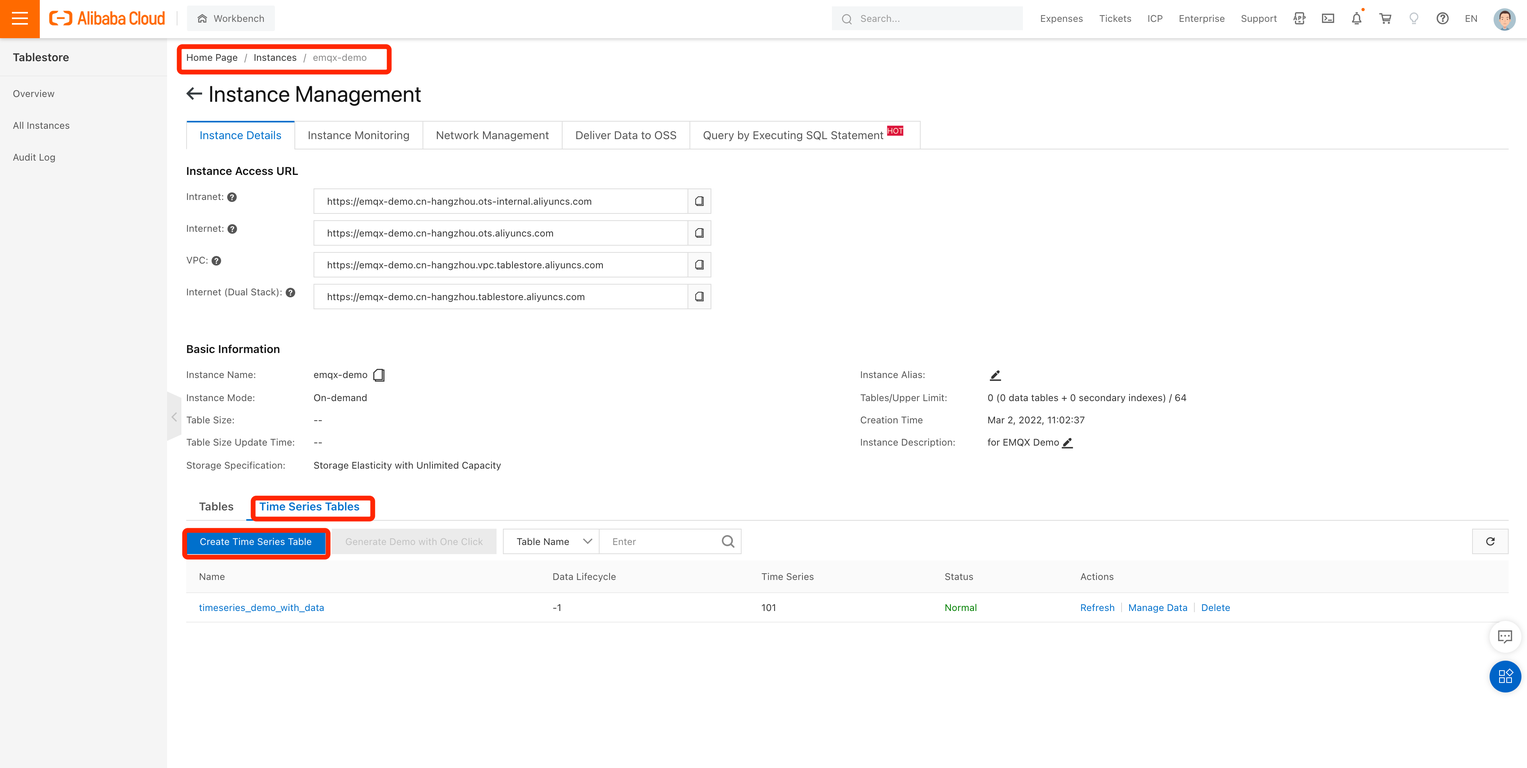
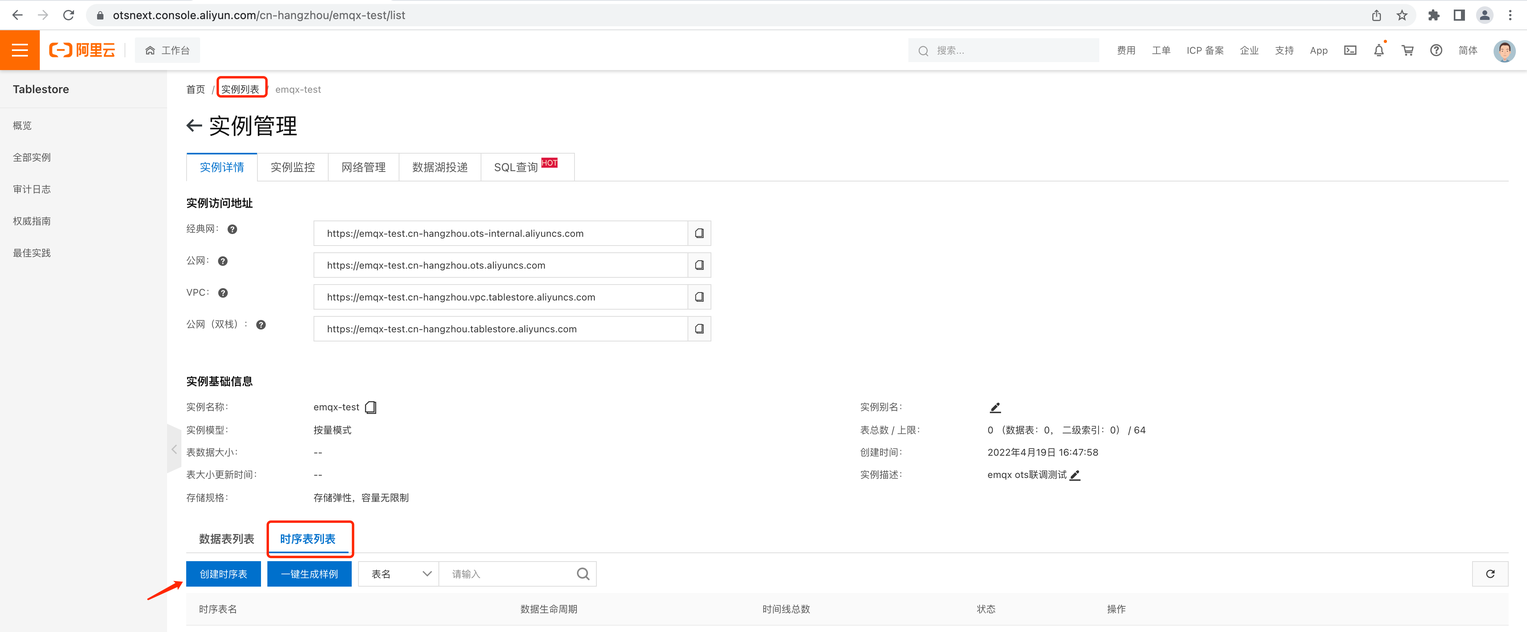
Update according to comments

diff --git a/en_US/data-integration/tablestore.md b/en_US/data-integration/tablestore.md
@@ -13,22 +13,20 @@ Tablestore data integration in EMQX seamlessly combines EMQX's real-time data ca
 
 Once the data is stored, Tablestore provides powerful tools for analysis, including the ability to generate reports, charts, and other visualizations, which are then presented to users via Tablestore’s visualization features.
 
-The typical data integration architecture between EMQX and Tablestore for IoT applications, such as vehicle networking, is illustrated below:
+The diagram below illustrates the typical data integration architecture between EMQX and Tablestore in an energy storage scenario.
 
-<!--Need a new illustration-->
+![MQTT to Tablestore](./assets/mqtt-to-tablestore.png)
 
-![MQTT to Tablestore](/Users/emqx/Documents/GitHub/emqx-docs/en_US/data-integration/assets/mqtt-to-influxdb.jpg)
+EMQX and Tablestore provide an extensible IoT platform for efficiently collecting and analyzing energy consumption data in real-time. In this architecture, EMQX serves as the IoT platform, handling device access, message transmission, and data routing, while Tablestore serves as the data storage and analysis platform, responsible for data storage and analysis functions. The workflow is as follows:
 
-In this architecture, EMQX handles device access, message transmission, and routing, while Tablestore acts as the storage and analysis platform. The data flow is as follows:
+1. **Message publication and reception**: Energy storage devices and Industrial IoT devices establish successful connections to EMQX through the MQTT protocol and regularly publish energy consumption data using the MQTT protocol, including information such as power consumption, input/output power, etc. When EMQX receives these messages, it initiates the matching process within its rules engine.  
+2. **Message data processing**: Using the built-in rule engine, messages from specific sources can be processed based on topic matching. When a message arrives, it passes through the rule engine, which matches it with the corresponding rule and processes the message data, such as transforming data formats, filtering specific information, or enriching messages with contextual information.
+3. **Data ingestion into Tablestore**: Rules defined in the rule engine trigger the operation of writing messages to Tablestore. The Tablestore Sink provides configurable fields that allow flexible definitions of the data format to be written, mapping specific fields from the message to the corresponding measurement and field in Tablestore.
 
-1. **Message Publication and Reception**: IoT devices in vehicle networks (e.g., connected cars, sensors) establish connections to EMQX via MQTT and regularly publish data such as vehicle speed, location, fuel level, etc. Upon receiving these messages, EMQX uses its rule engine to process and route the data.
-2. **Message Data Processing**: The built-in rule engine processes incoming messages based on defined topic matches. It transforms data, filters relevant information, and enriches the data with additional context as required.
-3. **Data Ingestion into Tablestore**: The rule engine triggers the operation of writing data to Tablestore. Through the Tablestore Sink, EMQX supports flexible data formats using Line Protocol, which maps the message fields to corresponding fields in Tablestore for storage.
+After energy consumption data is written to Tablestore, you can analyze the data, for example:
 
-Once the data is stored in Tablestore, you can leverage its full analytical capabilities, such as:
-
-- Connecting to visualization tools like Grafana to create charts and dashboards based on stored data.
-- Integrating with business systems for monitoring, alerting, and status reporting of vehicle network devices.
+- Connect to visualization tools like Grafana to generate charts based on the data, displaying energy storage data.
+- Connect to business systems for monitoring and alerting on the status of energy storage devices.
 
 ## Features and Benefits
 
@@ -42,11 +40,11 @@ The Tablestore data integration offers the following features and advantages:
 
 ## Before You Start
 
-This section describes the preparations you need to complete before you start creating the Tablestore data integration, including creating a database instance and managing a time series table.
+This section describes the preparations you need to complete before you start creating the Tablestore data integration, including creating a database instance, creating and managing a time series table.
 
 ::: tip
 
-EMQX integrates with Tablestore using the TimeSeries model. Therefore, the following steps focus on the TimeSeries model for data integration.
+Currently, the data integration with Tablestore only supports the TimeSeries model. Therefore, the following steps focus on the TimeSeries model for data integration.
 
 :::
 
@@ -57,16 +55,15 @@ Before you proceed, make sure you have the following:
 - Understanding of EMQX data integration [rules](./rules.md).
 - Knowledge of how [data integration](./data-bridges.md) works in EMQX.
 
-### Create a Database Instance
+### Create a Time Series Table
 
 1. Log in to the [Tablestore console](https://account.alibabacloud.com/login/login.htm?spm=5176.12901015-2.0.0.1a364b84fgwsH6).
-2. Navigate to **Instances**.
-3. In the **Instance Details** tab, select **Time Series Table** and click the **Create Time Series Table** button.
-4. Provide a name for the instance, for example, `qa-ots-series`.
+2. Create a time series model instance. Provide a name for the instance, such as `emqx-demo`. For detailed instructions on creating an instance, refer to the [Tablestore official documentation](https://www.alibabacloud.com/help/en/tablestore/getting-started/use-timeseries-model-in-tablestore-console?spm=a2c63.p38356.help-menu-27278.d_1_2_0.6d7d5e92tyvDzj#section-247-wkm-e7a).
+3. Navigate to the **Instance Management** page.
+4. In the **Instance Details** tab, select **Time Series Tables** and click the **Create Time Series Table** button.
+5. Configure the time series table information, providing a name for the table, such as `timeseries_demo_with_data`. Click **Confirm**.
 
 ![img](./assets/tablestore_instance_manage.png)
-
-For detailed instructions on creating an instance, refer to the [official Tablestore documentation](https://www.alibabacloud.com/help/en/tablestore/getting-started/procedure-of-using-tablestore?spm=a2c63.p38356.0.i2).
 
 ### Manage a Time Series Table
 
@@ -96,12 +93,12 @@ The following steps assume that you run both EMQX and Tablestore on the local ma
 4. In the **Configuration** step, configure the following information:
    - Enter the connector name, which should be a combination of upper and lower case letters and numbers. Example: `my_tablestore`.
    - Enter the Tablestore server connection information:
-     - **Endpoint**: Enter the access URL for your Tablestore instance. This should be the address where your Tablestore service is hosted, and you can find it on the Instance details page in your Tablestore console.
-     - **Instance Name**: The name of the Tablestore instance to connect to. In this example, use the name you created before: `qa-ots-series`.
+     - **Endpoint**: Enter the access URL for your Tablestore instance. This should be the address where your Tablestore service is hosted, and you can find it on the Instance details page in your Tablestore console. Enter the URL according to your deployment method, for example `https://emqx-demo.cn-hangzhou.ots.aliyuncs.com` for public network.
+     - **Instance Name**: The name of the Tablestore instance to connect to. In this example, use the name you created before: `emqx-demo`.
      - **Access Key ID**: The Access Key ID used to authenticate with Tablestore. This key is issued by Alibaba Cloud for accessing Tablestore resources securely.
      - **Access Key Secret**: The Access Key Secret used for authentication, associated with the Access Key ID.
-     - **Storage Model Type**: Select TimeSeries by default.
-   - Determine whether to enable TLS. For detailed information on TLS connection options, see [TLS for External Resource Access](../network/overview.md#enabling-tls-for-external-resource-access).
+     - **Storage Model Type**: Currently only `TimeSeries` is supported.
+   - Configure TLS Parameters. Tablestore uses HTTPS endpoints, so TLS is enabled by default and no additional TLS parameter configuration is required. For detailed information on TLS connection options, see [TLS for External Resource Access](../network/overview.md#enabling-tls-for-external-resource-access).
 5. Before clicking **Create**, you can click **Test Connectivity** to test if the connector can connect to the Tablestore server.
 6. Click the **Create** button at the bottom to complete the creation of the connector. In the pop-up dialog, you can click **Back to Connector List** or click **Create Rule** to continue creating rules and Sink to specify the data to be forwarded to Tablestore. For detailed steps, see [Create a Rule with Tablestore Sink](#create-a-rule-with-tablestore-sink).
 
@@ -143,19 +140,31 @@ This section demonstrates how to create a rule in EMQX to process messages from 
 9. Configure the following fields:
 
    - **Data Source**: The data source from which EMQX retrieves the message. It represents the origin of the data being processed. This could be a specific topic or data stream.
+
    - **Table Name**: The name of the Tablestore table where the data will be stored. Enter the table name you created before. You can also dynamically assign a table name using variables such as `${table}`.
-   - **Measurement**: The measurement name used in Tablestore, which typically corresponds to a logical grouping or category of data. For example, it could be something like `temperature_readings` or `sensor_data`. Use `${measurement}` for dynamic assignment.
-   - **Storage Model Type**: The type of data storage model used in Tablestore. It is`timeseries` by default, optimized for time-based data.
-   - **Tags**: Tags are key-value pairs associated with each data entry in Tablestore. These can be used to add metadata or labels to the data for easier querying and filtering. You can click **Add** to define multiple tags, such as `location = "office1"`, `device = "sensor1"`, etc.
+
+   - **Measurement**: The measurement name used in Tablestore, which typically corresponds to a logical grouping or category of data. For example, it could be something like `temperature_readings` or `sensor_data`. You can also use variables (e.g., `${measurement}`) to dynamically assign the metric name.
+
+   - **Storage Model Type**: The type of data storage model used in Tablestore. Currently, on `timeseries`  is supported, optimized for time-based data.
+
+   - **Tags**: Tags are key-value pairs associated with each data entry in Tablestore. These can be used to add metadata or labels to the data for easier querying and filtering. You can click **Add** to define multiple tags, for example:
+
+     | 键         | 值        |
+     | ---------- | --------- |
+     | `location` | `office1` |
+     | `device`   | `sensor1` |
+
    - **Fields**:  A list of fields specifying which data is sent to Tablestore. Each field is mapped to a column in the Tablestore table. You can click **Add** to add the following:
-     - **Column**: The name of the column in Tablestore.
-     - **Message value**: The value to be assigned to the column. The value can be a dynamic reference (like `${msg}`), a boolean (`true`), a number (`1.3`), or binary data.
-     - **Is Int**: If the column expects an integer, set this flag to `true`.
-     - **Is Binary**: If the column expects binary data, set this flag to `true`.
-   - **Timestamp**: The timestamp for the record in Tablestore. This typically represents when the data was received or when the event occurred. You can specify a fixed value or use `${timestamp}` for dynamic assignment based on the message's timestamp. This is important for time-series data to ensure that records are properly indexed by time.
+     - **Column**: The name of the column in Tablestore. The column name can be defined using variables, such as `${column_name}`, which should match the field in the payload of the message example sent later.
+     - **Message value**: The value to be assigned to the column. The value can be a dynamic reference (like `${value}`), a boolean (`true`), a number (`1.3`), or binary data.
+     - **Is Int**: If the column is of numeric type, EMQX will, by default, insert it into Tablestore as a floating-point type. To insert integer values, this flag needs to be set to `true`. When configuring through the configuration file, variables (e.g., `${isint}`) can be used to dynamically assign this flag.
+     - **Is Binary**: If the column is binary, EMQX will, by default, insert it into Tablestore as a string type. To insert binary data, this flag needs to be set to `true`. When configuring through the configuration file, variables (e.g., `${isbinary}`) can be used to dynamically assign this flag.
+     
+   - **Timestamp**: The timestamp recorded in Tablestore, represented as an integer value in microseconds. This specifies the timestamp to be inserted into Tablestore. You can provide a fixed value, use the string "NOW" to indicate that EMQX should dynamically fill in the current time when processing the message, or use a variable placeholder (e.g., `${microsecond_timestamp}`) for dynamic assignment.
+
    - **Meta Update Model**: Defines the update strategy for metadata in Tablestore:
      - `MUM_IGNORE`: Ignores metadata updates, ensuring that metadata remains unchanged even if there are conflicting updates.
-     - `MUM_NORMAL`: Updates metadata normally, which might overwrite existing metadata in case of conflicts.
+     - `MUM_NORMAL`: Performs a normal metadata update. If the metadata does not exist, it will be dynamically created before writing the data. If there is a conflict with existing metadata, it may be overwritten.
 
 10. Advanced settings (optional):  See [Advanced Configurations](#advanced-configurations).
 
@@ -174,12 +183,14 @@ You can also click **Integration** -> **Flow Designer** to view the topology. It
 Use MQTTX  to send a message to topic  `t/1`  to trigger an online/offline event.
 
 ```bash
-mqttx pub -i emqx_c -t t/1 -m '{ "msg": "hello Tablestore" }'
+mqttx pub -i emqx_c -t t/1 -m '{ "table": "timeseries_demo_with_data", "measurement": "foo", "microsecond_timestamp": 1734924039271024, "column_name": "cc", "value": 1}'
 ```
 
 Check the running status of the Sink, there should be one new incoming and one new outgoing message.
 
-In the Tablestore UI, you can confirm whether the message is written into the Tablestore via the **Data Explorer** window.
+Go to the [Tablestore Console](https://account.alibabacloud.com/login/login.htm?spm=5176.12901015-2.0.0.1a364b84fgwsH6) to check if the data has been written into Tablestore. Enter the metric name (in this demo, it is `foo`), with the client ID `123456`. Use `client=123456` as the query condition, then click **Search**.
+
+![tablestore_query_data](./assets/tablestore_query_data.png)
 
 ## Advanced Configurations
 

diff --git a/zh_CN/data-integration/tablestore.md b/zh_CN/data-integration/tablestore.md
@@ -14,23 +14,20 @@ EMQX 中的 Tablestore 数据集成将 EMQX 的实时数据捕获和传输能力
 
 数据存储完成后，Tablestore 提供强大的分析工具，包括生成报告、图表和其他可视化的能力，用户可以通过 Tablestore 的可视化功能查看这些分析结果。
 
-以下是 EMQX 与 Tablestore 之间典型的数据集成架构，适用于物联网应用，如车联网：
+下图展示了储能场景中 EMQX 和 Tablestore 数据集成的典型架构。
 
-<!--需要新插图-->
+![MQTT to Tablestore](./assets/mqtt-to-tablestore.png)
 
-![MQTT to Tablestore](./assets/mqtt-to-influxdb.jpg)
+EMQX 和 Tablestore 提供了一个可扩展的物联网平台，用于高效地实时收集和分析能耗数据。在此架构中，EMQX 作为物联网平台，负责设备接入、消息传输、数据路由等功能，Tablestore 作为数据存储和分析平台，负责数据存储、数据分析等功能。具体的工作流程如下：
 
+1. **消息发布与接收**：储能设备通过 MQTT 协议连接成功后定期发布能耗数据，这些数据包括电量、输入输出功率信息。EMQX 接收到消息后将在规则引擎中进行比对。
+2. **规则引擎处理消息**：通过内置的规则引擎，可以根据主题匹配处理特定来源的消息。当消息到达时，它会通过规则引擎，规则引擎会匹配对应的规则，并对消息数据进行处理，例如转换数据格式、过滤掉特定信息或使用上下文信息丰富消息。
+3. **写入到 Tablestore**：规则引擎中定义的规则触发将消息写入到 Tablestore 的操作。Tablestore Sink 提供了 可配置的字段，能够灵活地定义写入的数据格式，将消息中的特定字段写入到 Tablestore 的对应的表和列中。
 
-在这个架构中，EMQX 负责设备接入、消息传输和路由，而 Tablestore 作为存储和分析平台。数据流向如下：
+储能数据写入到 Tablestore 后，您可以对数据进行分析，例如：
 
- 1. **消息发布与接收**：车联网中的物联网设备（如联网汽车、传感器）通过 MQTT 与 EMQX 建立连接，并定期发布诸如车速、位置、油量等数据。EMQX 在接收到这些消息后，通过其规则引擎处理并路由数据。
- 2. **消息数据处理**：内置的规则引擎根据定义的主题匹配处理传入的消息。它对数据进行转换、筛选相关信息，并根据需要为数据添加额外的上下文。
- 3. **数据摄取到 Tablestore**：规则引擎触发将数据写入 Tablestore 的操作。通过 Tablestore Sink，EMQX 支持使用行协议（Line Protocol）的灵活数据格式，将消息字段映射到 Tablestore 中相应的字段进行存储。
-
-数据存储到 Tablestore 后，您可以利用其完整的分析功能，如：
-
-- 连接可视化工具（如 Grafana）创建基于存储数据的图表和仪表板。
-- 与业务系统集成，用于监控、警报和车联网设备的状态报告。
+- 连接到可视化工具，例如 Grafana，根据数据生成图表，展示储能数据。
+- 连接业务系统，进行储能设备状态监控与告警。
 
 ## 特性与优势
 
@@ -44,11 +41,11 @@ Tablestore 数据集成具有以下特性与优势：
 
 ## 准备工作
 
-本节介绍了在 EMQX 中创建 Tablestore Sink 之前需要完成的准备工作，包括创建数据库实例和管理时序表。
+本节介绍了在 EMQX 中创建 Tablestore Sink 之前需要完成的准备工作，包括创建数据库实例，创建时序表和管理时序表。
 
 ::: tip
 
-EMQX 与 Tablestore 的数据集成使用时序模型作为数据存储模型。因此，以下步骤将专注于介绍时序模型的相关数据集成操作。
+EMQX 与 Tablestore 的数据集成目前仅支持时序模型。因此，以下步骤将专注于介绍时序模型的相关数据集成操作。
 
 :::
 
@@ -57,18 +54,17 @@ EMQX 与 Tablestore 的数据集成使用时序模型作为数据存储模型。
 - 了解[规则](./rules.md)。
 - 了解[数据集成](./data-bridges.md)。
 
-### 创建数据库实例
+### 创建时序表
 
 1. 登录到 [Tablestore 控制台](https://account.alibabacloud.com/login/login.htm?spm=5176.12901015-2.0.0.1a364b84fgwsH6)。
-2. 转到**实例管理**页面。
-3. 在**实例详情**标签页中，选择**时序表列表**，并点击**创建时序表**按钮。
-4. 为实例提供一个名称，例如 `qa-ots-series`。
+2. 创建时序模型数据库实例。为实例提供一个名称，例如 `emqx-demo`。有关创建实例的详细说明，请参考 [Tablestore 官方文档](https://help.aliyun.com/zh/tablestore/getting-started/use-timeseries-model-in-tablestore-console?spm=a2c4g.11186623.help-menu-27278.d_1_2_0.6809619404X61r&scm=20140722.H_342856._.OR_help-T_cn~zh-V_1)。
+3. 转到**实例管理**页面。
+4. 在**实例详情**标签页中，选择**时序表列表**，并点击**创建时序表**按钮。
+5. 配置时序表信息，为时序表提供一个名称，例如 `timeseries_demo_with_data`。点击**确定**。
 
 ![tablestore_instance_manage](./assets/tablestore_instance_manage.png)
 
-有关创建实例的详细说明，请参考 [Tablestore 官方文档](https://www.alibabacloud.com/help/zh/tablestore/getting-started/?spm=a2c63.p38356.help-menu-27278.d_1.58c83c19VFZqZL)。
-
-### 管理时间序列表
+### 管理时序表
 
 要管理之前创建的时序表，请点击表格名称进入时序表管理界面。在那里，您可以根据业务需求执行以下操作：
 
@@ -97,12 +93,12 @@ EMQX 与 Tablestore 的数据集成使用时序模型作为数据存储模型。
 
    - 输入连接器名称，名称应由字母和数字的组合组成。示例：`my_tablestore`。
    - 输入 Tablestore 服务器连接信息：
-     - **端点**：输入您的 Tablestore 实例的访问 URL。这应是托管您 Tablestore 服务的地址，您可以在 Tablestore 控制台的实例详情页面找到该地址。
-     - **实例名称**：要连接的 Tablestore 实例名称。在本示例中，使用之前创建的名称：`qa-ots-series`。
+     - **端点**：输入您的 Tablestore 实例的访问地址。这应是托管您 Tablestore 服务的地址，您可以在 Tablestore 控制台的实例详情页面找到该地址。按照部署方式的不同，填写不同的域名。比如，公网地址为：`https://emqx-demo.cn-hangzhou.ots.aliyuncs.com`。
+     - **实例名称**：要连接的 Tablestore 实例名称。在本示例中，使用之前创建的名称：`emqx-demo`。
      - **访问密钥 ID**：用于与 Tablestore 认证的 Access Key ID。此密钥由阿里云颁发，用于安全访问 Tablestore 资源。
      - **访问密钥**：与 Access Key ID 相关联的用于认证的 Access Key Secret。
-     - **存储模型类型**：默认选择`时序`。
-   - 设置是否启用TLS。有关 TLS 连接选项的详细信息，请参阅[启用 TLS 加密访问外部资源](../network/overview.md#启用-tls-加密访问外部资源)。
+     - **存储模型类型**：目前仅支持`时序`。
+   - 配置 TLS 参数。Tablestore 使用 HTTPS 端点，故默认情况下 TLS 已经启用，并且无需配置 TLS 参数。有关 TLS 连接选项的详细信息，请参阅[启用 TLS 加密访问外部资源](../network/overview.md#启用-tls-加密访问外部资源)。
 5. 在点击**创建**之前，您可以点击**测试连接**，以测试连接器是否能够连接到 Tablestore 服务器。
 6. 点击最下方的**创建**按钮完成连接器的创建。在弹出对话框中，您可以点击 **返回连接器列表** 或点击 **创建规则** 继续创建规则和 Sink，以指定要转发到 Tablestore 的数据。具体步骤请参见[创建 Tablestore Sink 规则](#创建-tablestore-sink-规则)。
 
@@ -148,19 +144,32 @@ EMQX 与 Tablestore 的数据集成使用时序模型作为数据存储模型。
 9. 配置以下字段：
 
    - **数据源**：EMQX 从中获取消息的数据源，表示正在处理的数据的来源。可以是特定的主题或数据流。
+
    - **表名**：数据将存储到 Tablestore 的表名。输入您之前创建的表名。您还可以使用变量（如 `${table}`）动态分配表名。
-   - **度量名称**：在 Tablestore 中使用的度量名称，通常对应于数据的逻辑分组或类别。例如，它可以是类似 `temperature_readings` 或 `sensor_data` 的名称。使用 `${measurement}` 进行动态分配。
-   - **存储模型类型**：Tablestore 使用的数据存储模型类型。默认为 `timeseries`，优化用于基于时间的数据。
-   - **标签**：标签是与每个数据项关联的键值对，可以用来添加元数据或标签，以便更容易查询和过滤。您可以点击**添加**来定义多个标签，例如 `location = "office1"`、`device = "sensor1"` 等。
+
+   - **度量名称**：在 Tablestore 中使用的度量名称，通常对应于数据的逻辑分组或类别。例如，它可以是类似 `temperature_readings` 或 `sensor_data` 的名称。 您还可以使用变量（如 `${measurement}`）动态分配度量名称。
+
+   - **存储模型类型**：Tablestore 使用的数据存储模型类型。目前仅支持 `timeseries`，优化用于基于时间的数据。
+
+   - **标签**：标签是与每个数据项关联的键值对，可以用来添加元数据或标签，以便更容易查询和过滤。您可以点击**添加**来定义多个标签，例如：
+
+     | 键         | 值        |
+     | ---------- | --------- |
+     | `location` | `office1` |
+     | `device`   | `sensor1` |
+
    - **字段**：字段列表，指定哪些数据将发送到 Tablestore。每个字段都映射到 Tablestore 表中的一列。您可以点击**添加**来添加以下内容：
-     - **列**：Tablestore 中的列名。
-     - **消息的值**：分配给列的值。该值可以是动态引用（如 `${msg}`）、布尔值（`true`）、数字（`1.3`）或二进制数据。
-     - **是否为整数**：如果列要求整数值，将此标志设置为 `true`。
-     - **是否为二进制**：如果列要求二进制数据，将此标志设置为 `true`。
-   - **时间戳**：Tablestore 中记录的时间戳。通常表示数据接收的时间或事件发生的时间。您可以指定一个固定值，也可以使用 `${timestamp}` 动态分配，基于消息的时间戳进行分配。对于时间序列数据来说，这非常重要，可以确保记录按时间正确索引。
+     
+     - **列**：Tablestore 中的列名。列名可以用变量。如 `${column_name}`。
+     - **消息的值**：分配给列的值。该值可以是动态引用（如 `${value}`）、布尔值（`true`）、数字（`1.3`）或二进制数据。
+     - **是否为整数**：如果列是数值类型，EMQX 默认按照浮点类型插入 Tablestore。如果想要插入整数值，需要将此标志设置为 `true`。若通过配置文件配置，可以使用变量（如：`${isint}`）动态分配。
+     - **是否为二进制**：若该列为二进制，EMQX 默认按照字符串类型插入 Tablestore。如果想要插入二进制数据，需要此标志设置为 `true`。若通过配置文件配置，可以使用变量（如：`${isbinary}`）动态分配。
+     
+   - **时间戳**：Tablestore 中记录的时间戳，整数值，单位为微秒。表示要插入到 Tablestore 的时间戳。您可以指定一个固定值，或者填写 "NOW" 字符串来表示希望 EMQX 动态填入处理消息时的当前时间，也可以使用变量占位符（如 `${microsecond_timestamp}`) 动态分配。
+
    - **元数据更新模式**：定义 Tablestore 中元数据的更新策略：
      - `MUM_IGNORE`：忽略元数据更新，即使存在冲突更新，也确保元数据保持不变。
-     - `MUM_NORMAL`：正常更新元数据，在发生冲突时可能会覆盖现有的元数据。
+     - `MUM_NORMAL`：正常更新元数据，若元数据不存在，则在写入数据前动态创建元数据；若与现有元数据发生冲突，则可能会覆盖。
 
 10. 展开**高级设置**，根据需要配置高级设置选项（可选），详细请参考[高级设置](#高级设置)。
 
@@ -179,12 +188,14 @@ EMQX 与 Tablestore 的数据集成使用时序模型作为数据存储模型。
 使用 MQTTX 向 `t/1` 主题发布消息，此操作同时会触发上下线事件：
 
 ```bash
-mqttx pub -i emqx_c -t t/1 -m '{ "msg": "hello Tablestore" }'
+mqttx pub -i emqx_c -t t/1 -m '{ "table": "timeseries_demo_with_data", "measurement": "foo", "microsecond_timestamp": 1734924039271024, "column_name": "cc", "value": 1}'
 ```
 
 分别查看两个 Sink 运行统计，命中、发送成功次数均 +1。
 
-前往 [Tablestore UI Data Explorer](http://localhost:8086) 查看数据是否已经写入 Tablestore 中。
+前往 [Tablestore 控制台](https://account.alibabacloud.com/login/login.htm?spm=5176.12901015-2.0.0.1a364b84fgwsH6) 查看数据是否已经写入 Tablestore 中。输入度量名称（演示使用的是 `foo`），client ID 为 `123456`，我们使用 `client=123456` 作为查询条件，点击查询。
+
+![tablestore_query_data](./assets/tablestore_query_data.png)
 
 ## 高级设置
 
